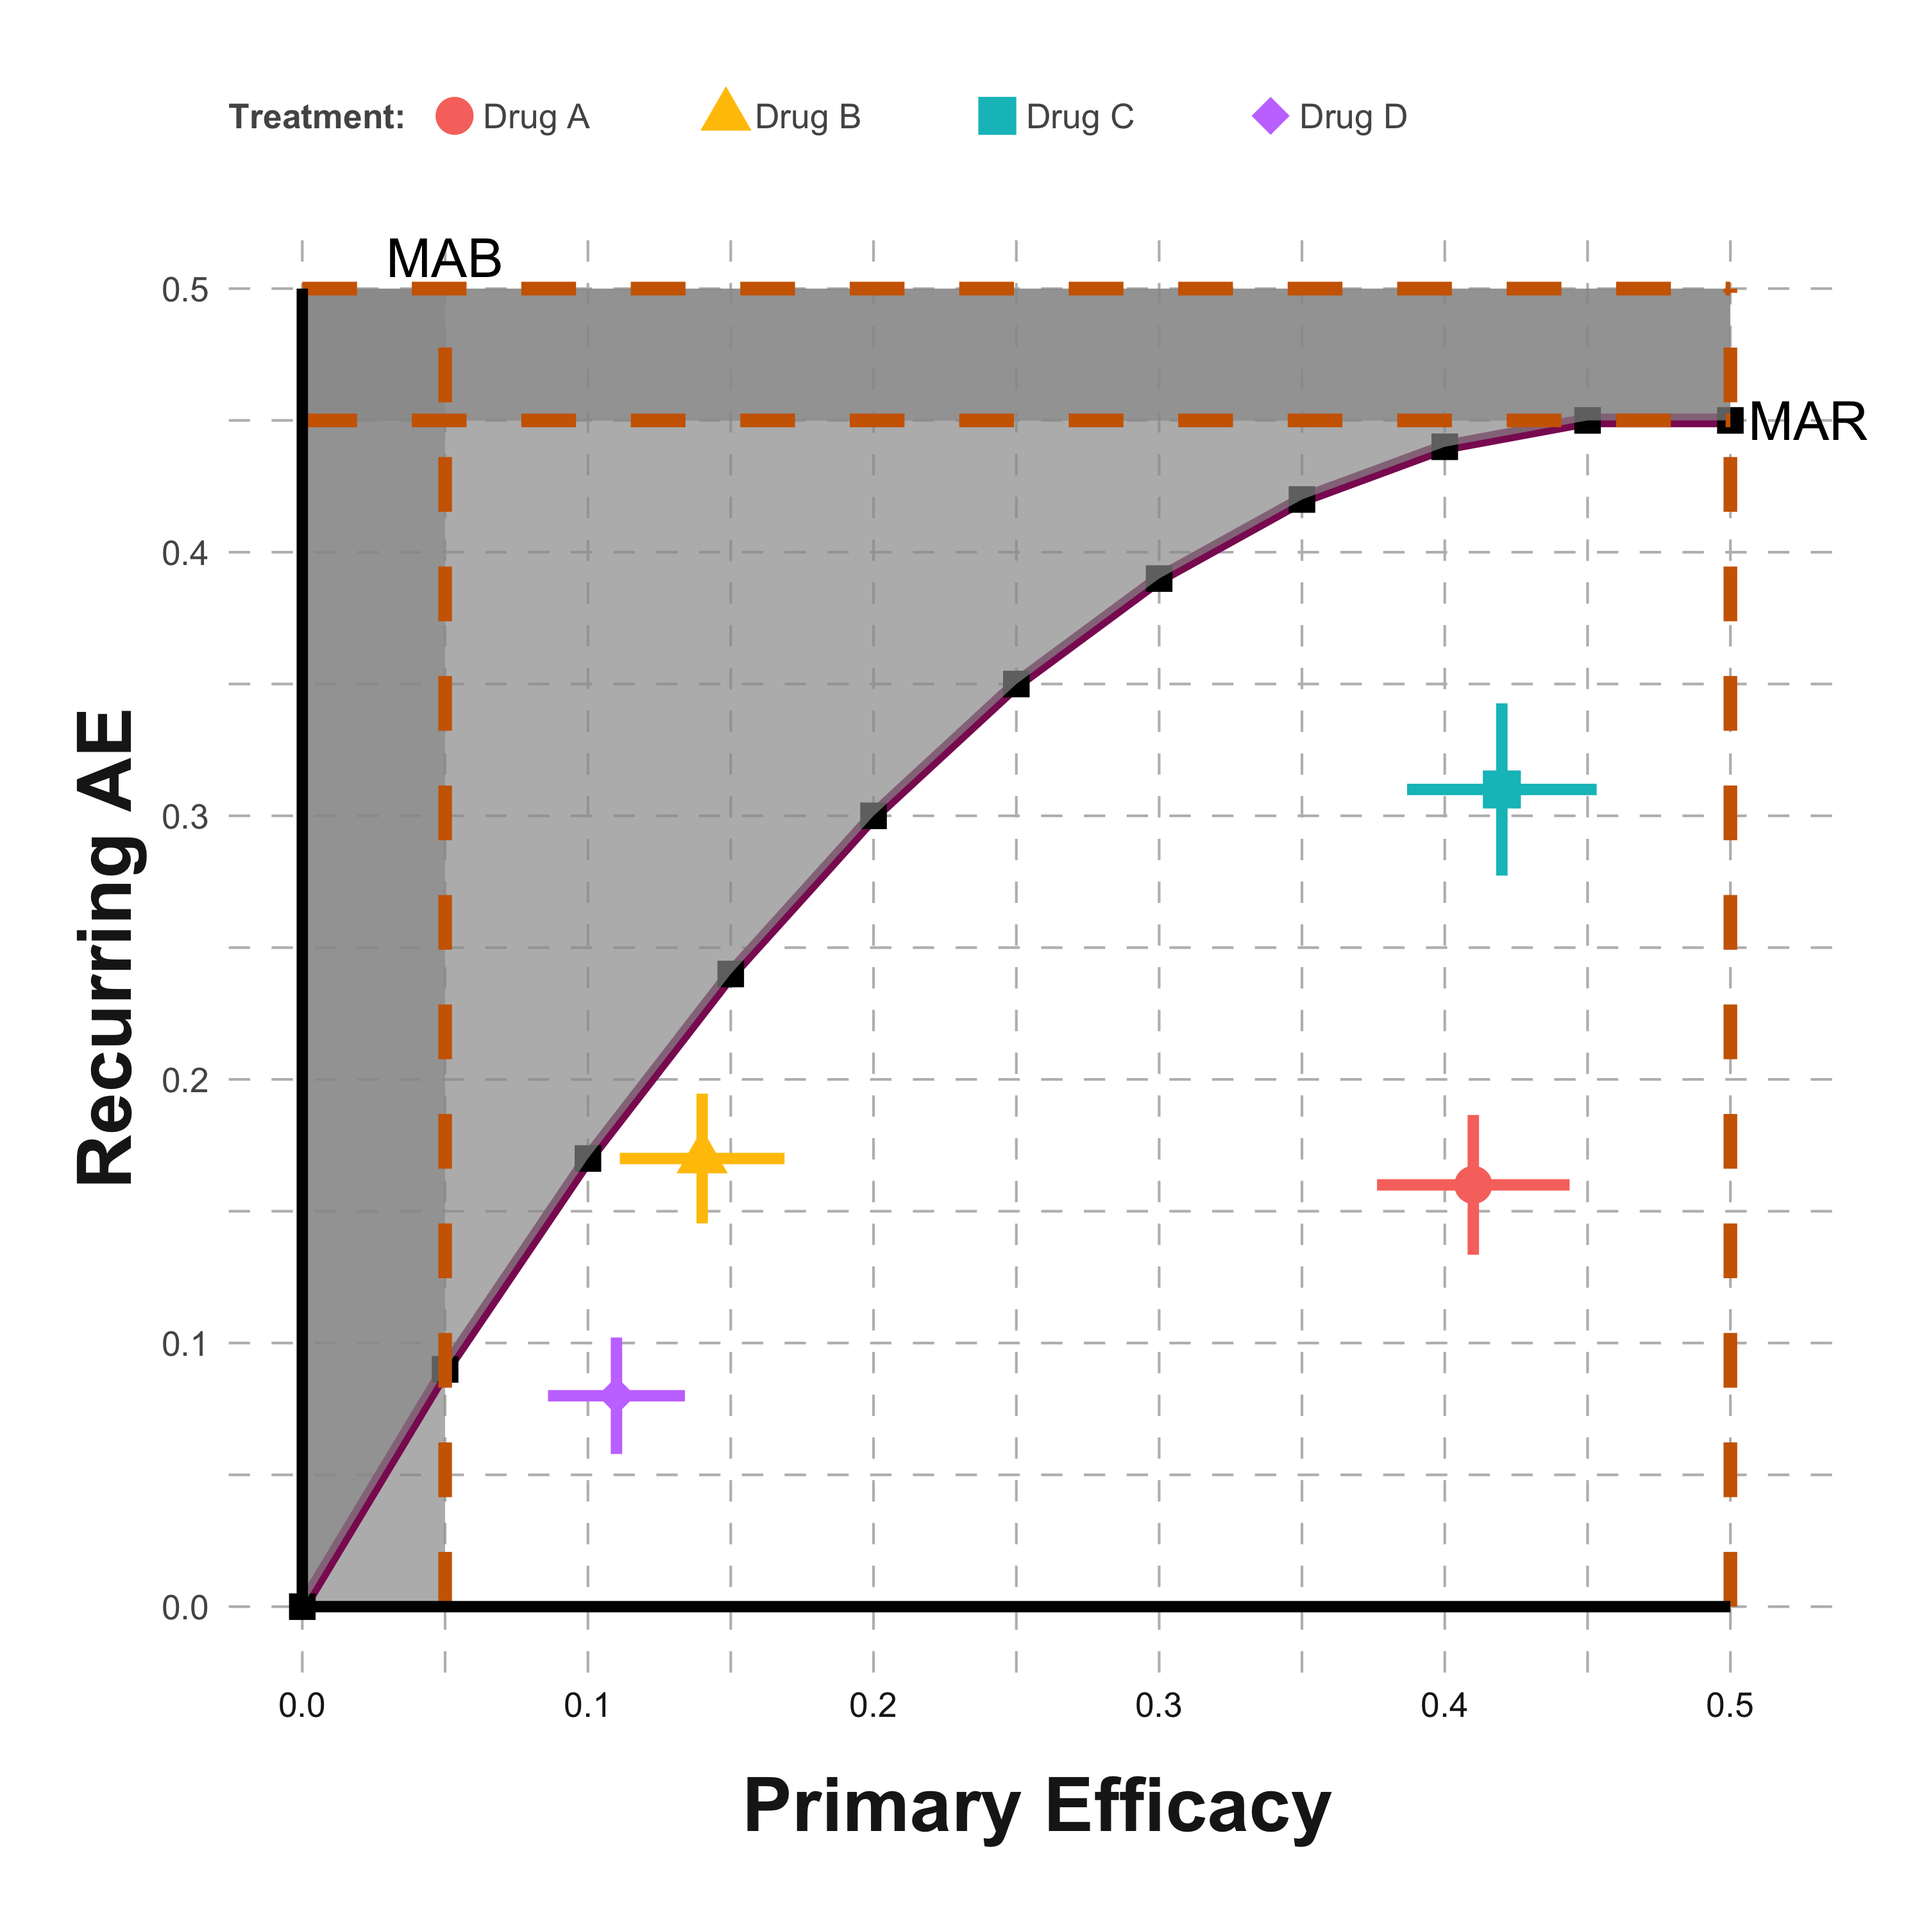
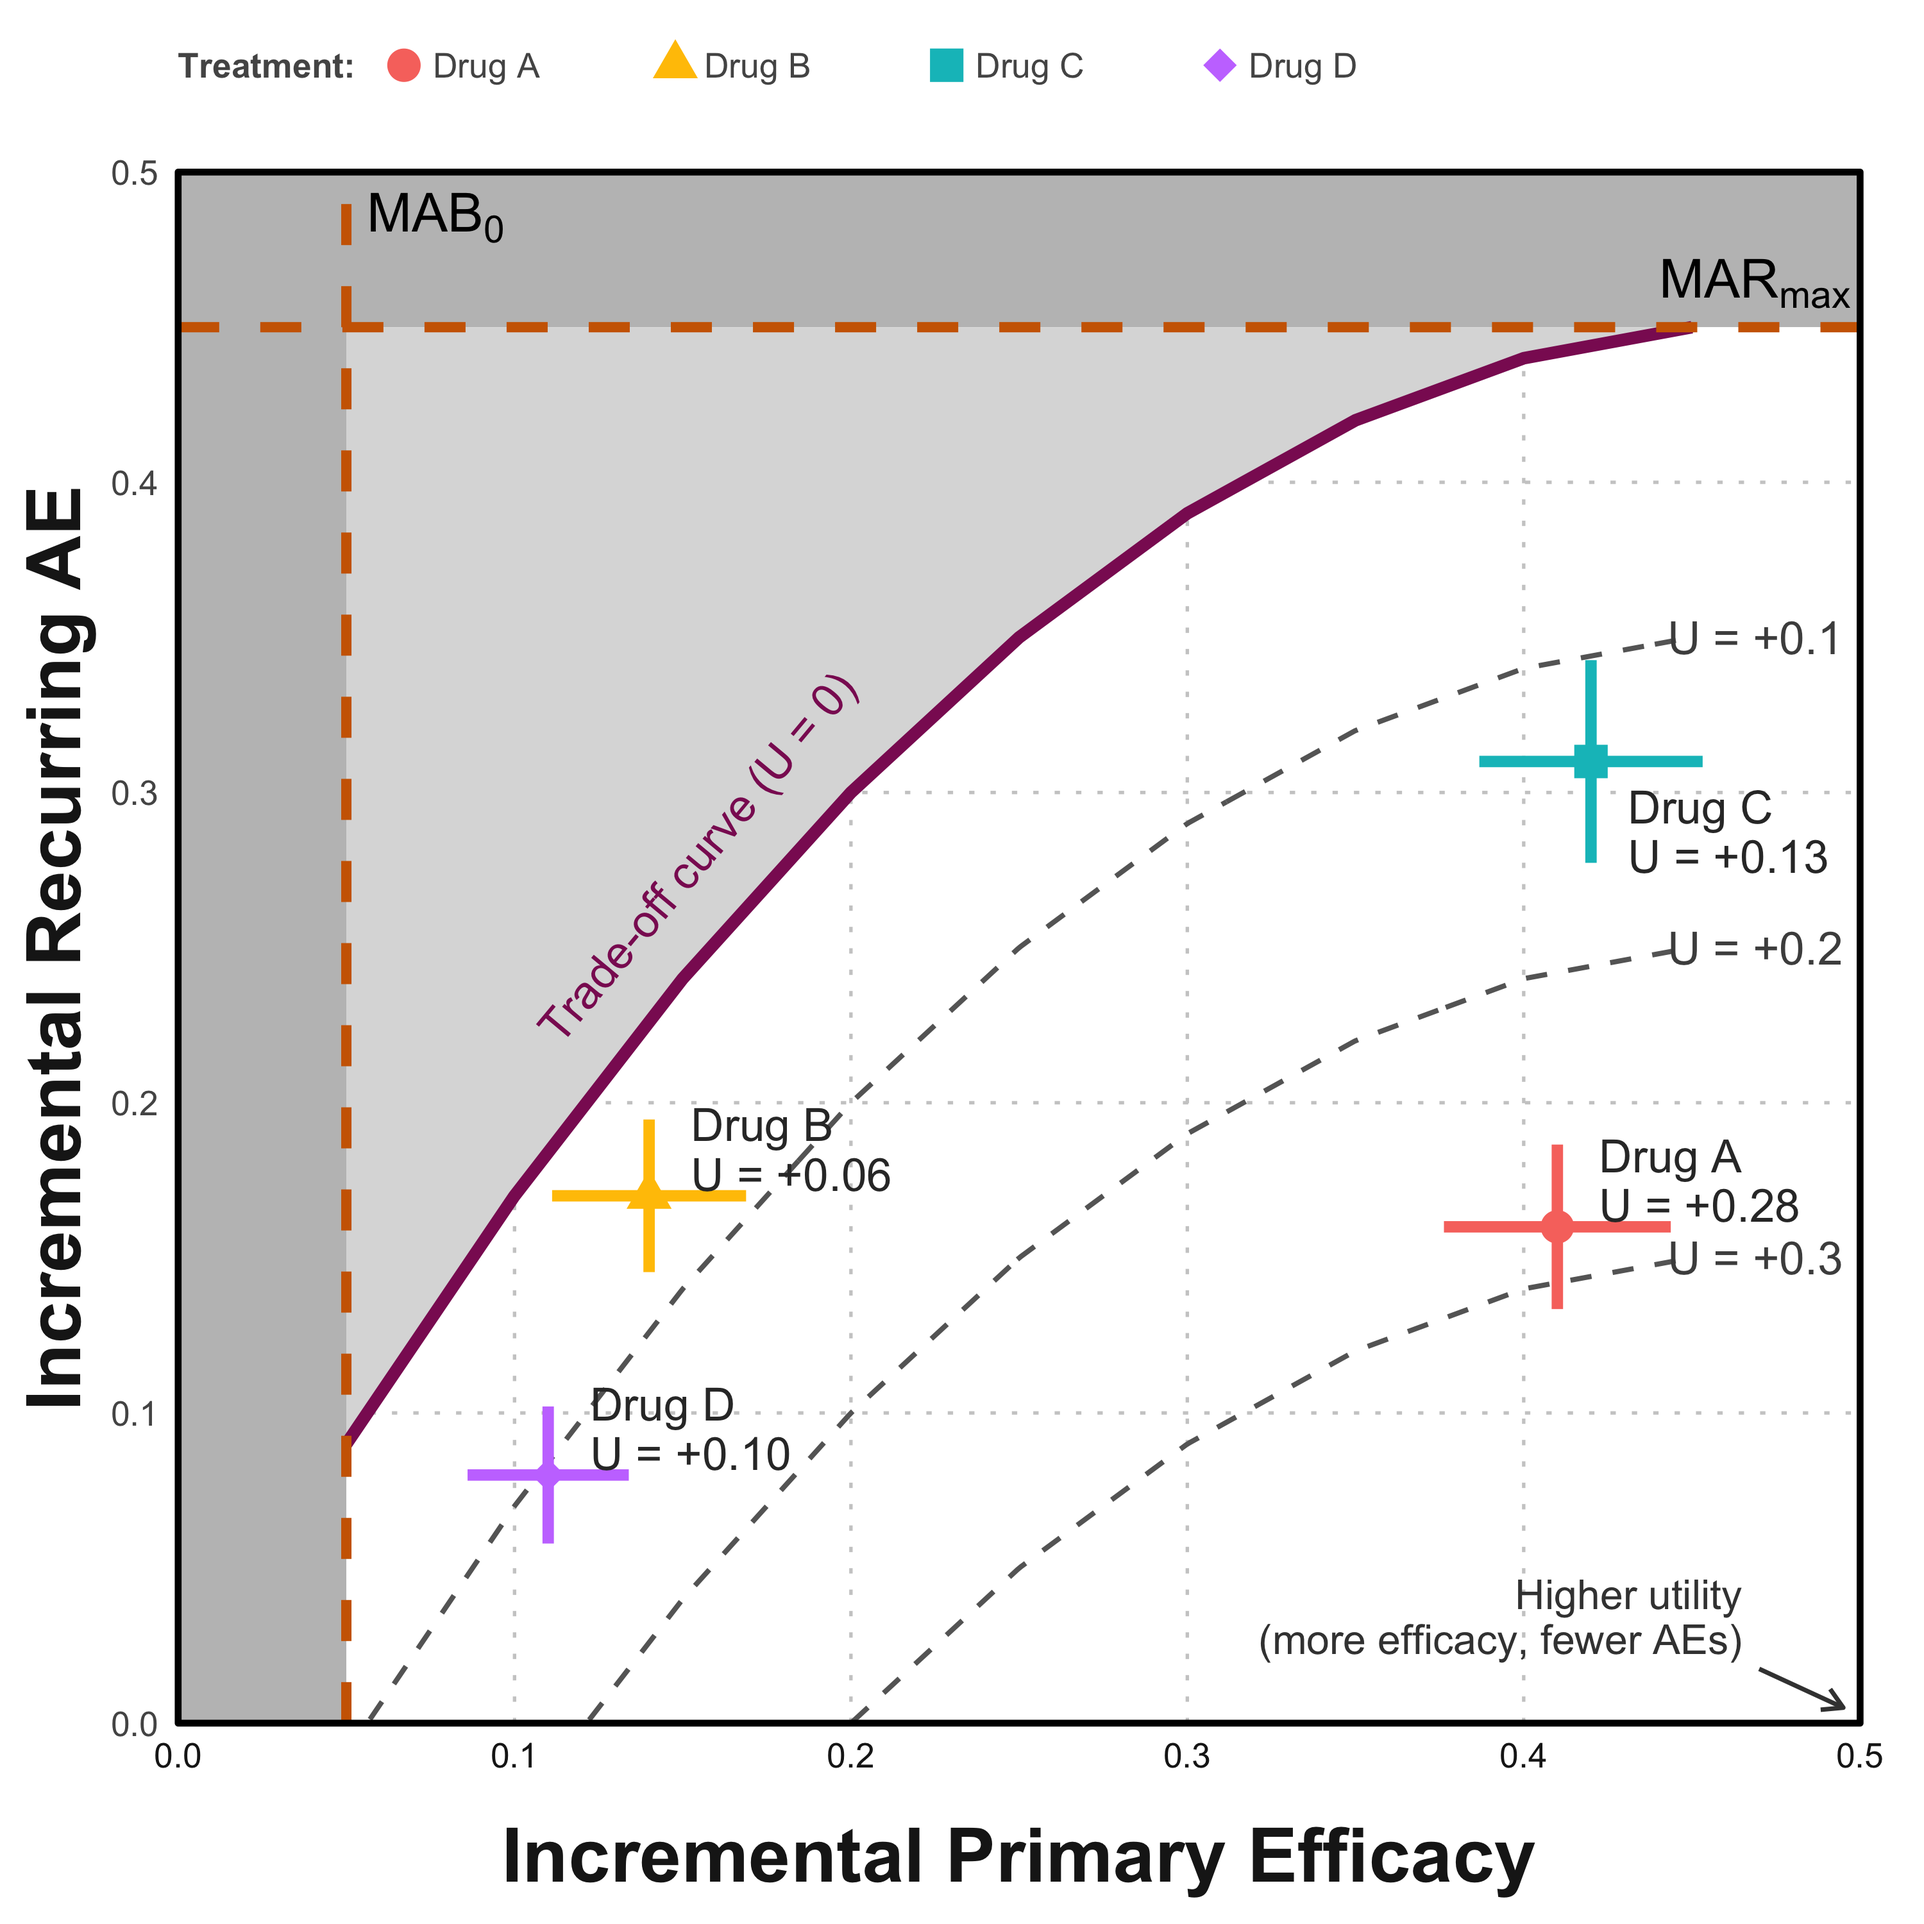
docs: show publication figures in README and fix pkgdown URL
- Trade-off, scatter, divergent stacked bar and cumulative excess
  examples now use tradeoff_utility_plot(), scatter_plot(style =
  "publication"), fav_side = "left" and cumexcess_incidence_plot(),
  matching dev/generate_publication_plots.R
- New Publication Figures section mapping manuscript figure numbers to
  the files in inst/img/pub
- README re-knitted; man/figures updated
- _pkgdown.yml url pointed at pkgdown.r-lib.org; now the GitHub Pages URL

Refs #82.

diff --git a/README.md b/README.md
@@ -18,6 +18,7 @@ clinical evidence”.
 # Table of Contents
 
 - [Installation](#installation)
+- [Publication Figures](#publication-figures)
 - [Figure - Dot-Forest Plot](#figure---dot-forest-plot)
 - [Figure - Trade-off Plot](#figure---trade-off-plot)
 - [Figure - Correlogram](#figure---correlogram)
@@ -53,6 +54,38 @@ pak::pak("BR-Visualization/value-judgement-clinical-evidence")
 install.packages("remotes")
 remotes::install_github("BR-Visualization/value-judgement-clinical-evidence")
 ```
+
+## Publication Figures
+
+`dev/generate_publication_plots.R` writes the publication figures to
+`inst/img/pub/`. The file numbers do not follow the manuscript figure
+numbers, so use this table to find the file for each figure.
+
+| Manuscript figure | File in `inst/img/pub/` | Function |
+|----|----|----|
+| Figure 1 – Value tree | Not generated by the package | – |
+| Figure 2 – Dot-forest plot | `image01_dotforest` | `create_forest_dot_plot()` |
+| Figure 3 – Trade-off plot | `image02_tradeoff` | `tradeoff_utility_plot()` |
+| Figure 4 – Predicted scatter plot | `image04_scatter` | `scatter_plot(style = "publication")` |
+| Figure 5 – Divergent stacked bar chart | `image05_divergent_stacked_barchart` | `divergent_stacked_barchart()` |
+| Figure 6 – Cumulative excess plot | `image06_cumulative_excess` | `cumexcess_incidence_plot()` |
+| Figure 7 – Value function types | `image07_value_function_types_comparison` | `compare_value_function_types()` |
+| Figure 8 – MCDA comparison (Drug A) | `image08_barplot_mcda_comparison_drug_a` | `create_mcda_barplot_comparison()` |
+| Figure 9 – MCDA waterfall | `image09_mcda_waterfall_all_drugs` | `create_mcda_waterfall()` |
+| Figure 10 – MCDA benefit-risk map | `image10_mcda_benefit_risk_map` | `create_mcda_brmap()` |
+| Figure 11 – MCDA tornado (Drug A) | `image11_tornado` | `mcda_tornado()` |
+| Figure 12 – Weight sensitivity, Drugs A-D vs placebo | `image13_weight_sensitivity_drugs` | `mcda_weight_sensitivity(comparator_name = "Placebo")` |
+
+Each figure is saved as `.tiff` (for submission) and `.png`. These files
+are not used in the manuscript:
+
+- `image03_correlogram` (`create_correlogram()`)
+- `image12_weight_sensitivity`: Placebo vs Drug A in Study 1
+- `image14_weight_sensitivity_treatments`: all active treatments on one
+  chart
+
+The Drug B-D versions of Figures 8 and 11, and the weight sensitivity
+charts for the other criteria, are in `inst/img/other/`.
 
 ## Figure - Dot-Forest Plot
 
@@ -112,8 +145,7 @@ Click to learn more
 
 **Getting Help**
 
-- Documentation: Use `?generate_tradeoff_plot` for detailed function
-  help
+- Documentation: Use `?tradeoff_utility_plot` for detailed function help
 - Issues: Report bugs at [GitHub
   Issues](https://github.com/BR-Visualization/value-judgement-clinical-evidence/issues)\
 - Discussions: Join discussions at [GitHub
@@ -135,29 +167,15 @@ library(valueJudgementCE)
 effects_table_filtered <- effects_table |>
   dplyr::filter(Outcome %in% c("Recurring AE", "Primary Efficacy"))
 
-generate_tradeoff_plot(
+tradeoff_utility_plot(
   data = effects_table_filtered,
-  filter = "None",
-  category = "All",
   benefit = "Primary Efficacy",
   risk = "Recurring AE",
-  type_risk = "Crude proportions",
-  type_graph = "Absolute risk",
-  ci = "Yes",
-  ci_method = "Calculated",
-  cl = 0.95,
   mab = 0.05,
   mar = 0.45,
-  threshold = "Segmented line",
-  ratio = 4,
-  b1 = 0.05, b2 = 0.1, b3 = 0.15, b4 = 0.2, b5 = 0.25,
-  b6 = 0.3, b7 = 0.35, b8 = 0.4, b9 = 0.45, b10 = 0.5,
-  r1 = 0.09, r2 = 0.17, r3 = 0.24, r4 = 0.3, r5 = 0.35,
-  r6 = 0.39, r7 = 0.42, r8 = 0.44, r9 = 0.45, r10 = 0.45,
-  testdrug = "Yes",
-  type_scale = "Free",
-  lower_x = 0, upper_x = 0.5,
-  lower_y = 0, upper_y = 0.5,
+  tc_benefit = c(0.05, 0.1, 0.15, 0.2, 0.25, 0.3, 0.35, 0.4, 0.45),
+  tc_risk = c(0.09, 0.17, 0.24, 0.3, 0.35, 0.39, 0.42, 0.44, 0.45),
+  utility_levels = c(0.1, 0.2, 0.3),
   chartcolors = colfun()$fig7_colors
 )
 ```
@@ -234,7 +252,7 @@ Click to view sample code
 library(valueJudgementCE)
 
 outcome <- c("Benefit", "Risk")
-scatter_plot(scatterplot, outcome, mab = 0.2, mar = 0.6)
+scatter_plot(scatterplot, outcome, mab = 0.2, mar = 0.6, style = "publication")
 ```
 
 </details>
@@ -293,7 +311,8 @@ divergent_stacked_bar_fig <- divergent_stacked_barchart(
     "Benefit less than threshold, w/o AE",
     "Benefit less than threshold, with AE"
   ),
-  ylabel = "Study Week"
+  ylabel = "Study Week",
+  fav_side = "left"
 )
 
 # Extract and combine with shared legend
@@ -338,7 +357,8 @@ Click to learn more
 
 **Getting Help**
 
-- Documentation: Use `?gensurv_combined` for detailed function help
+- Documentation: Use `?cumexcess_incidence_plot` for detailed function
+  help
 - Issues: Report bugs at [GitHub
   Issues](https://github.com/BR-Visualization/value-judgement-clinical-evidence/issues)\
 - Discussions: Join discussions at [GitHub
@@ -357,16 +377,12 @@ Click to view sample code
 ``` r
 library(valueJudgementCE)
 
-gensurv_combined(
-  df_plot = cumexcess, subjects_pt = 100, visits_pt = 6,
-  df_table = cumexcess, fig_colors_pt = colfun()$fig13_colors,
-  rel_heights_table = c(1, 0.5),
-  legend_position_p = c(.1, 1.56),
-  titlename =
-    "Cumulative Excess # of Subjects w/ Events (per 100 Subjects)",
-  mar = 32,
-  mab = 15,
-  mcd = 22
+cumexcess_incidence_plot(
+  data = cumexcess,
+  mab = 10,
+  mar = 5,
+  visits = 6,
+  fig_colors = colfun()$fig13_colors
 )
 ```
 
